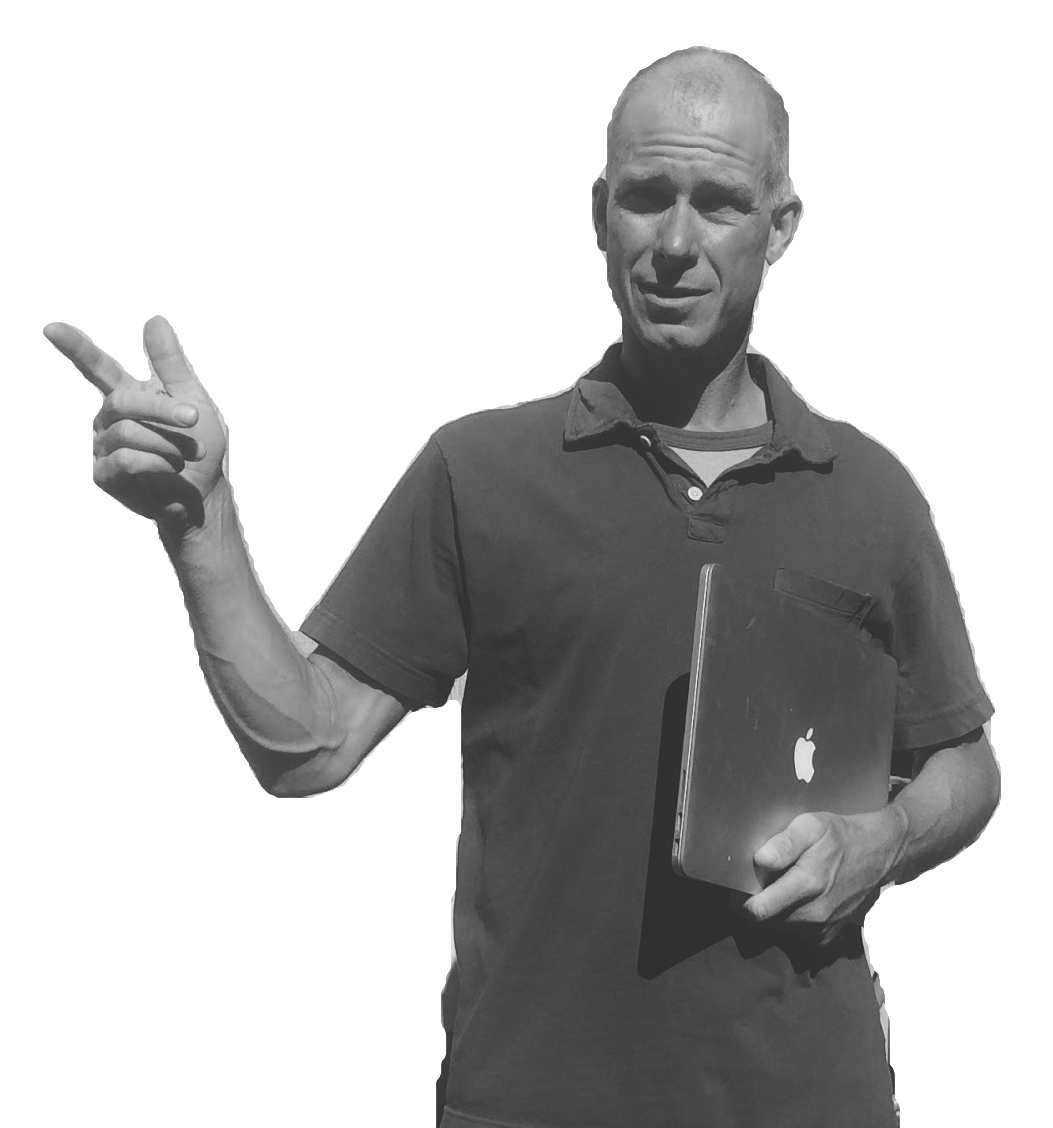
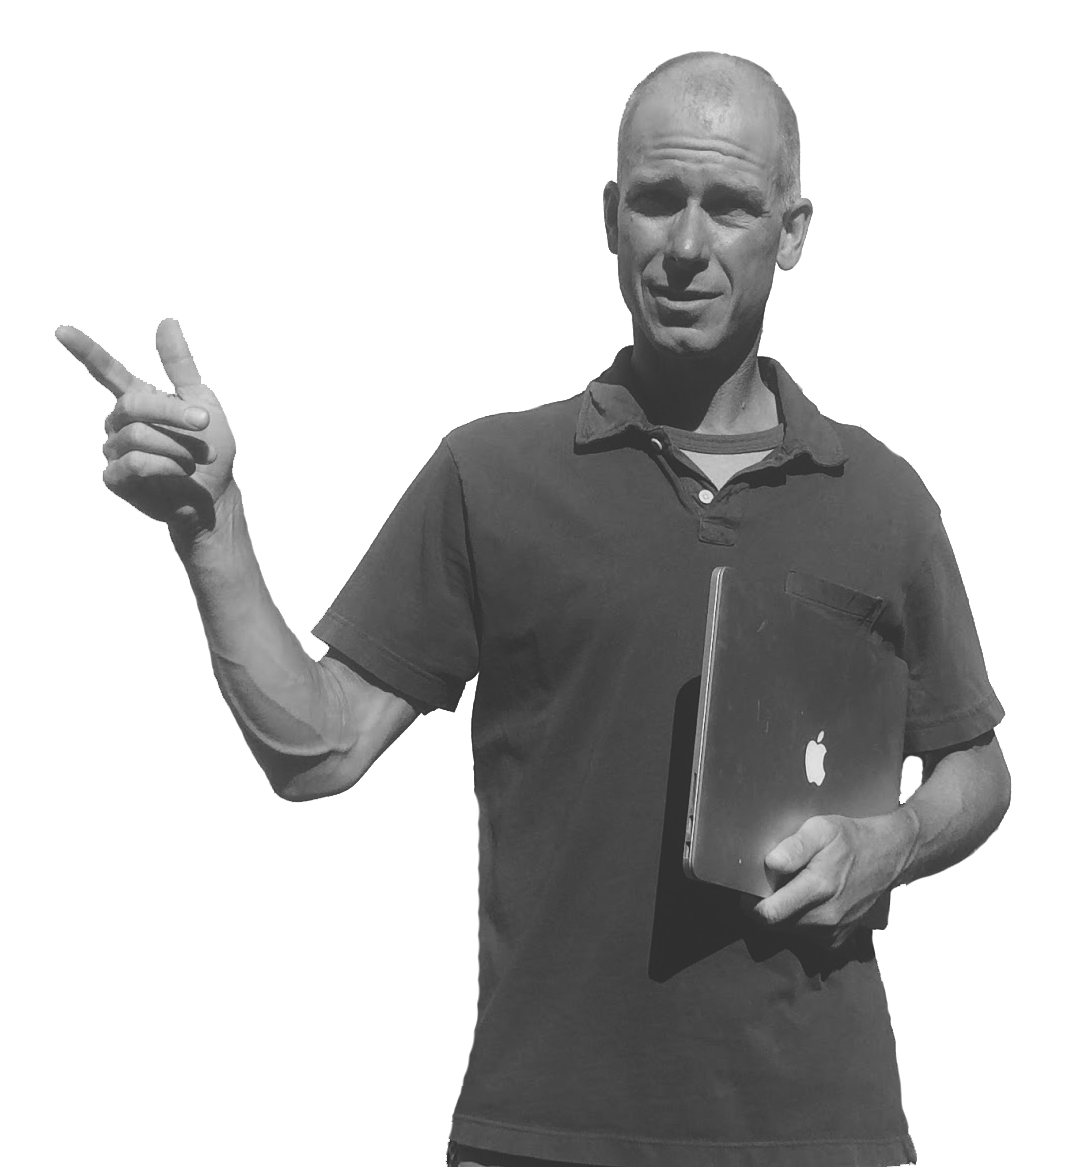
Use the hand-cut Photoshop portrait for the hero
Replaces the Vision-generated cutout with the supplied hand-cut PNG.
Its matte is far tighter — 1.25% partial alpha against 13.8% — so none
of the morphological repair is needed any more.

Processing is only what the design requires: 238 stray speck components
(571px of leftover background) cleared, greyscale conversion tone-matched
to the site's existing grading, and the deep-shadow lift kept so the
laptop's cast shadow on the shirt does not crush to a black wedge.
1092x1167, WebP 58KB.

diff --git a/index.html b/index.html
@@ -70,7 +70,7 @@
     <source srcset="img/background/bio-pic-hero.webp" type="image/webp">
     <img class="hero__portrait" src="img/background/bio-pic-hero.png"
          alt="Christian McCarthy, holding a laptop and pointing"
-         width="1053" height="1128" fetchpriority="high">
+         width="1092" height="1167" fetchpriority="high">
   </picture>
   <div class="hero__inner">
     <div class="hero__text">
